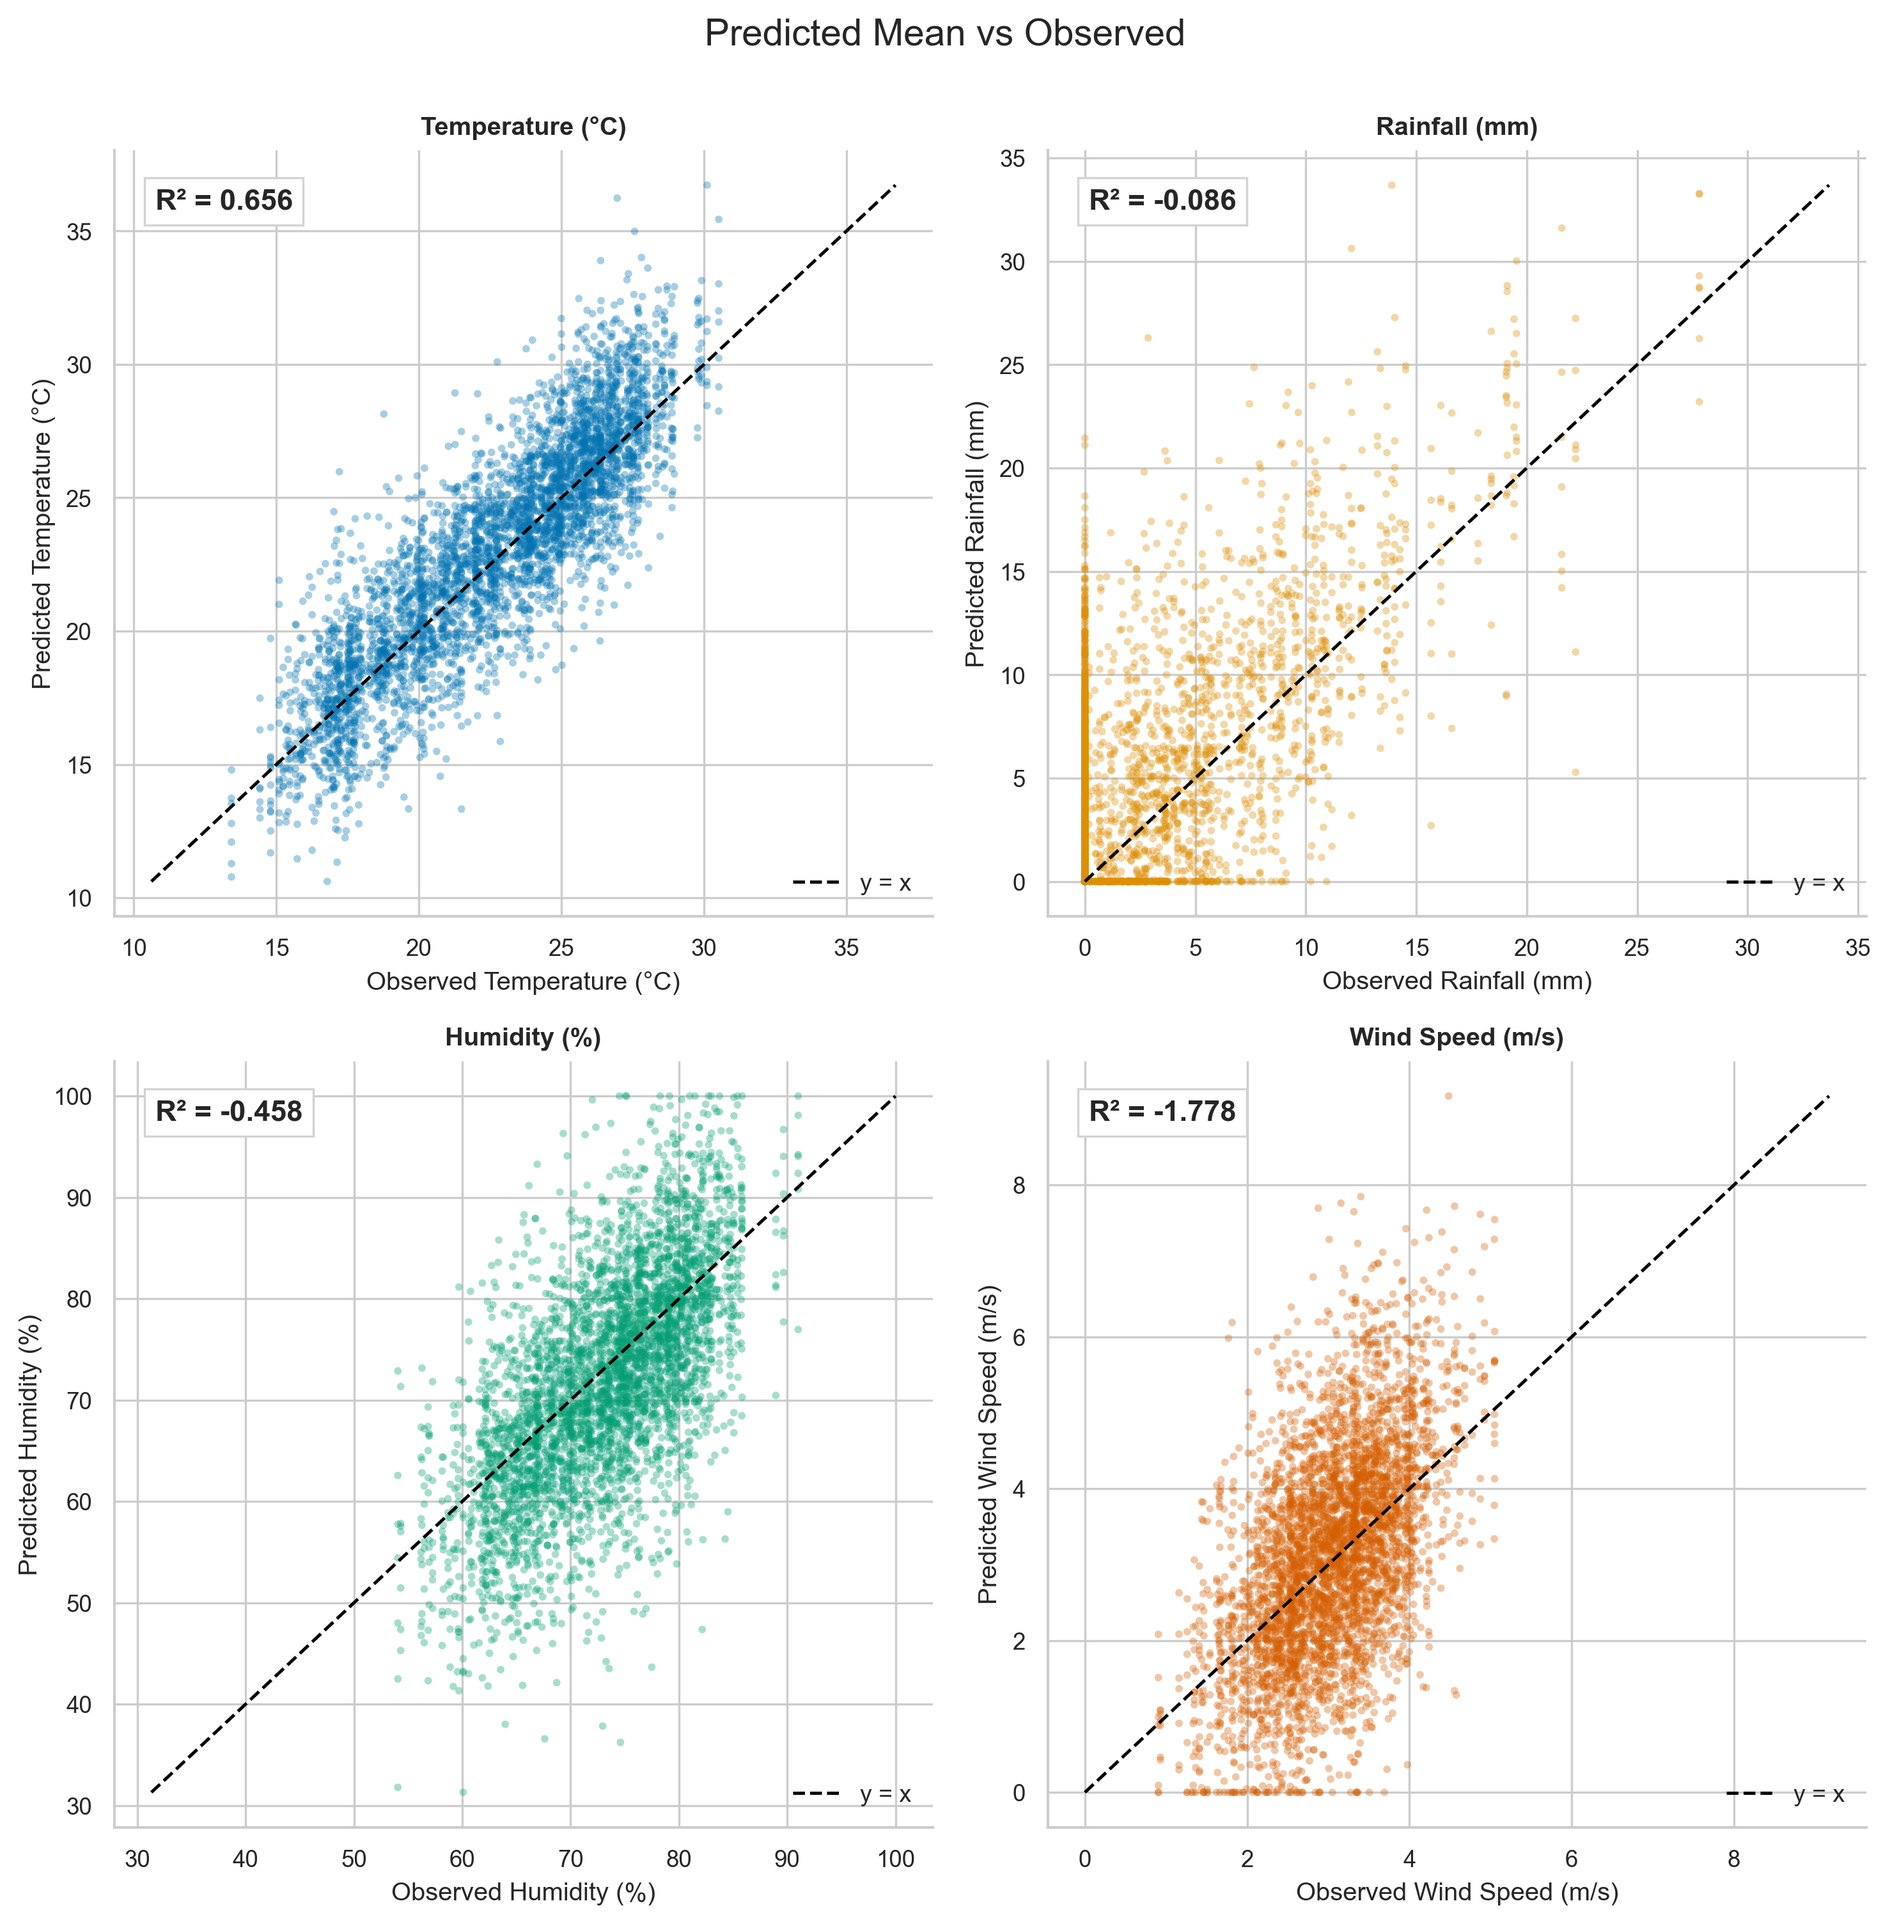
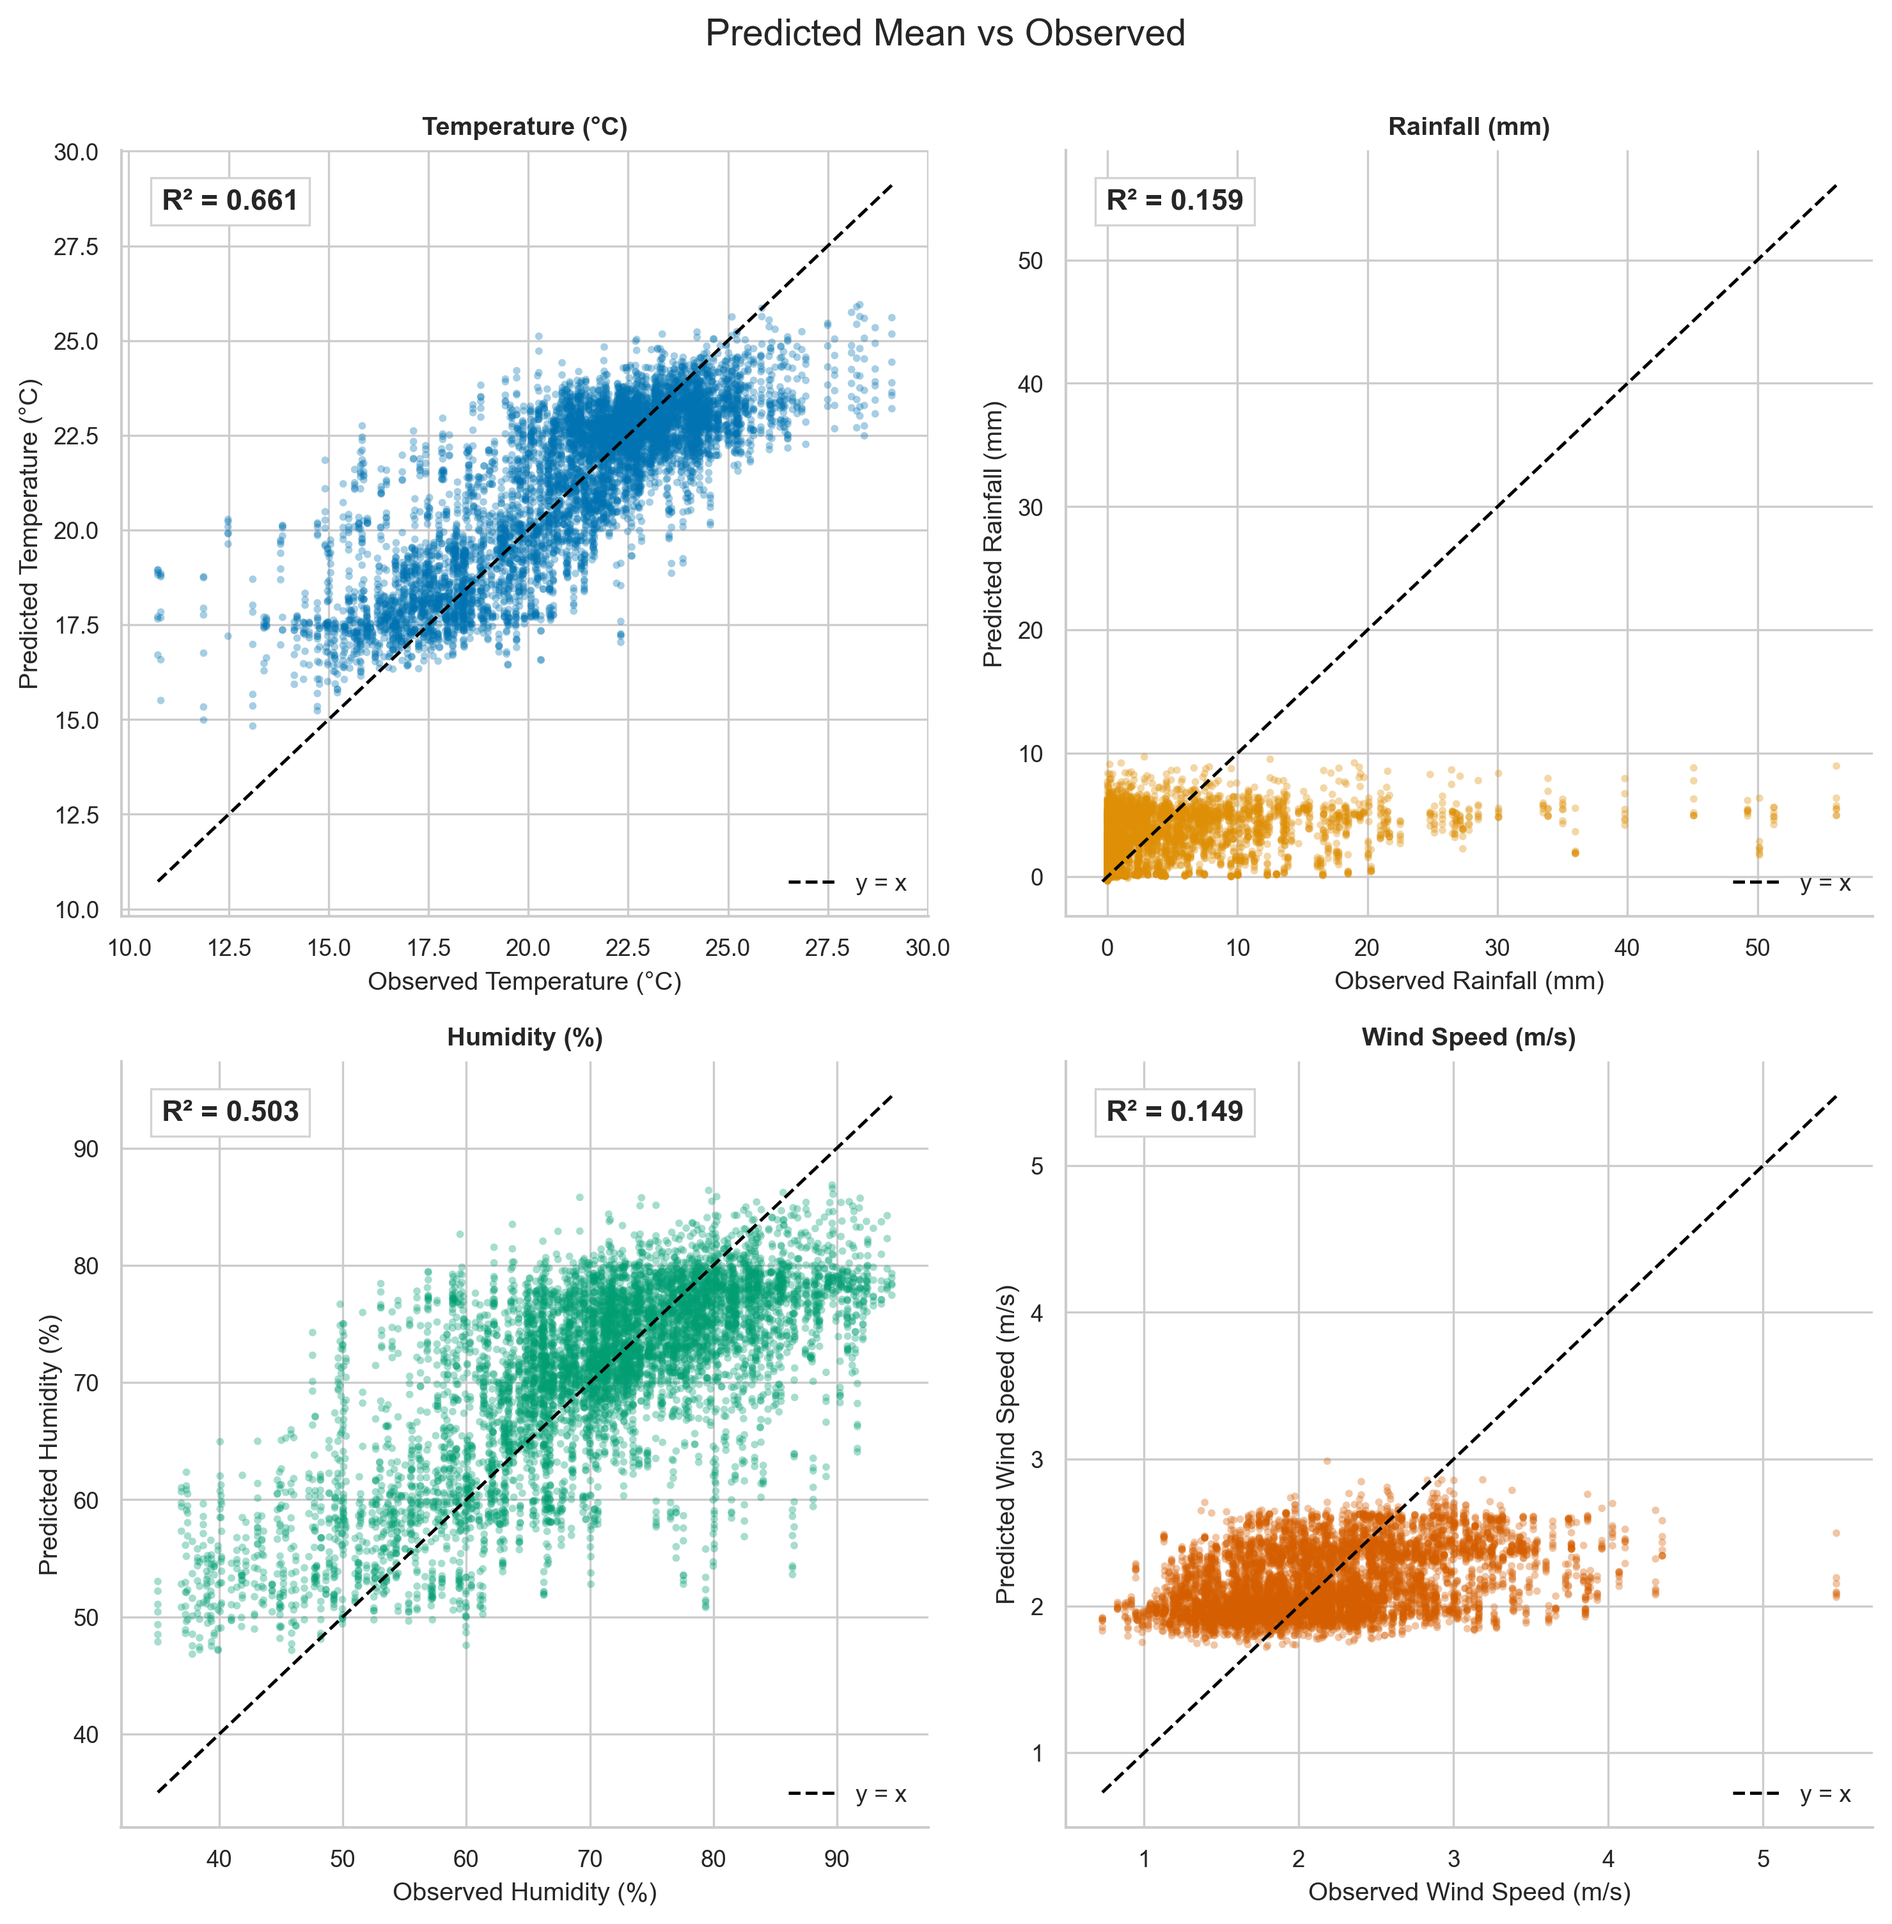
correct data used

diff --git a/test.py b/test.py
@@ -1529,24 +1529,30 @@ def synthetic_evaluation_demo():
 # Real-data evaluation — loads model saved by train.py, no training here
 # ---------------------------------------------------------------------------
 
-def real_data_test():
+def real_data_test(output_dir: str = DEFAULT_OUTPUT_DIR):
     """
-    Load the model saved by train.py, run inference on the test split, and
-    produce forecast and calibration plots with real predicted values.
+    Load the trained model from models/, run inference on the test split,
+    and produce the full evaluation suite (8 plots + 2 CSVs) via run_evaluation.
 
-    Run train.py first (e.g. main(max_records=500, n_epochs=5)) to generate
-    the required artefacts in the models/ directory.
+    Variable-order note
+    -------------------
+    train.py's model head emits axis-2 in the order defined by
+    TARGET_FEATURE_INDICES: [temperature, humidity, rainfall, wind].
+    run_evaluation expects axis-2 in the order used by VAR_NAMES:
+    [temperature, rainfall, humidity, wind].
+    The remapping index MODEL_TO_EVAL = [0, 2, 1, 3] is applied after
+    denormalisation so every downstream plot is labelled correctly.
     """
     _require_torch()
     from train import (
         FEATURE_COLUMNS,
+        INPUT_DAYS,
         ProbabilisticForecaster,
         TARGET_FEATURE_INDICES,
         WeatherWindowDataset,
         load_daily_data,
     )
 
-    local_var_names = [FEATURE_COLUMNS[i] for i in TARGET_FEATURE_INDICES]
     weights_path = os.path.join(MODELS_DIR, "best_model.pt")
     stats_path   = os.path.join(MODELS_DIR, "normalisation_stats.pt")
     config_path  = os.path.join(MODELS_DIR, "split_config.pt")
@@ -1558,14 +1564,14 @@ def real_data_test():
             )
 
     # ---- Load saved artefacts ----
-    stats       = torch.load(stats_path,  map_location="cpu")
-    config      = torch.load(config_path, map_location="cpu")
+    stats       = torch.load(stats_path,  map_location="cpu", weights_only=False)
+    config      = torch.load(config_path, map_location="cpu", weights_only=False)
     train_mean  = stats["mean"]
     train_std   = stats["std"]
     max_records = config["max_records"]
     split_fracs = config["split_fracs"]
 
-    # ---- Reconstruct test split using the same config (no retraining) ----
+    # ---- Reconstruct test split (mirrors train.py exactly) ----
     dates, features = load_daily_data(max_records=max_records)
     n = len(features)
     if split_fracs is not None:
@@ -1574,7 +1580,8 @@ def real_data_test():
         test_features = features[n_train + n_val:]
     else:
         from train import VAL_END_YEAR
-        test_features = features[[i for i, d in enumerate(dates) if int(d[:4]) > VAL_END_YEAR]]
+        test_idx      = [i for i, d in enumerate(dates) if int(d[:4]) > VAL_END_YEAR]
+        test_features = features[test_idx]
 
     test_data    = (test_features - train_mean) / train_std
     test_dataset = WeatherWindowDataset(test_data)
@@ -1583,34 +1590,55 @@ def real_data_test():
     # ---- Load model ----
     device = torch.device("cuda" if torch.cuda.is_available() else "cpu")
     model  = ProbabilisticForecaster()
-    model.load_state_dict(torch.load(weights_path, map_location=device))
+    model.load_state_dict(
+        torch.load(weights_path, map_location=device, weights_only=True)
+    )
     model.to(device)
     model.eval()
     print(f"[EVAL] Loaded model from {weights_path}  (device: {device})")
 
-    # ---- Collect predictions ----
-    all_mu, all_sigma, all_y = [], [], []
+    # ---- Collect predictions and last observed day for persistence baseline ----
+    all_mu, all_sigma, all_y, all_last = [], [], [], []
     with torch.no_grad():
         for x, y in test_loader:
             mu, sigma = model(x.to(device))
             all_mu.append(mu.cpu())
             all_sigma.append(sigma.cpu())
             all_y.append(y.cpu())
+            # Last input day's target features (normalised): x[:, -1, TARGET_FEATURE_INDICES]
+            all_last.append(x[:, -1, :][:, TARGET_FEATURE_INDICES].cpu())
 
-    mu_norm    = torch.cat(all_mu,    dim=0)
+    mu_norm    = torch.cat(all_mu,    dim=0)   # (N, 7, 4)  model order
     sigma_norm = torch.cat(all_sigma, dim=0)
     y_norm     = torch.cat(all_y,     dim=0)
+    last_norm  = torch.cat(all_last,  dim=0)   # (N, 4)     model order
 
-    # ---- Denormalise for interpretable plots ----
-    t_mean     = train_mean[TARGET_FEATURE_INDICES]
+    # ---- Denormalise ----
+    t_mean     = train_mean[TARGET_FEATURE_INDICES]   # (4,) model order
     t_std      = train_std[TARGET_FEATURE_INDICES]
     mu_real    = (mu_norm    * t_std + t_mean).numpy()
-    sigma_real = (sigma_norm * t_std).numpy()
+    sigma_real = (sigma_norm * t_std          ).numpy()
     y_real     = (y_norm     * t_std + t_mean).numpy()
+    last_real  = (last_norm  * t_std + t_mean).numpy()
 
-    evaluate_and_plot(mu_norm, sigma_norm, y_norm,
-                      mu_real, sigma_real, y_real,
-                      var_names=local_var_names, label='real')
+    # ---- Remap variable axis from model order to evaluation order ----
+    # Model head order (TARGET_FEATURE_INDICES): temperature, humidity, rainfall, wind
+    # VAR_NAMES / run_evaluation order:          temperature, rainfall,  humidity, wind
+    MODEL_TO_EVAL = [0, 2, 1, 3]
+    mu_real    = mu_real[...,    MODEL_TO_EVAL]
+    sigma_real = sigma_real[..., MODEL_TO_EVAL]
+    y_real     = y_real[...,     MODEL_TO_EVAL]
+    last_real  = last_real[:,    MODEL_TO_EVAL]
+
+    # ---- Run comprehensive evaluation suite ----
+    run_evaluation(
+        y_true        = y_real,
+        mu_pred       = mu_real,
+        sigma_pred    = sigma_real,
+        last_observed = last_real,
+        output_dir    = output_dir,
+        var_names     = VAR_NAMES,
+    )
     print("\nReal data test complete.")
 
 
